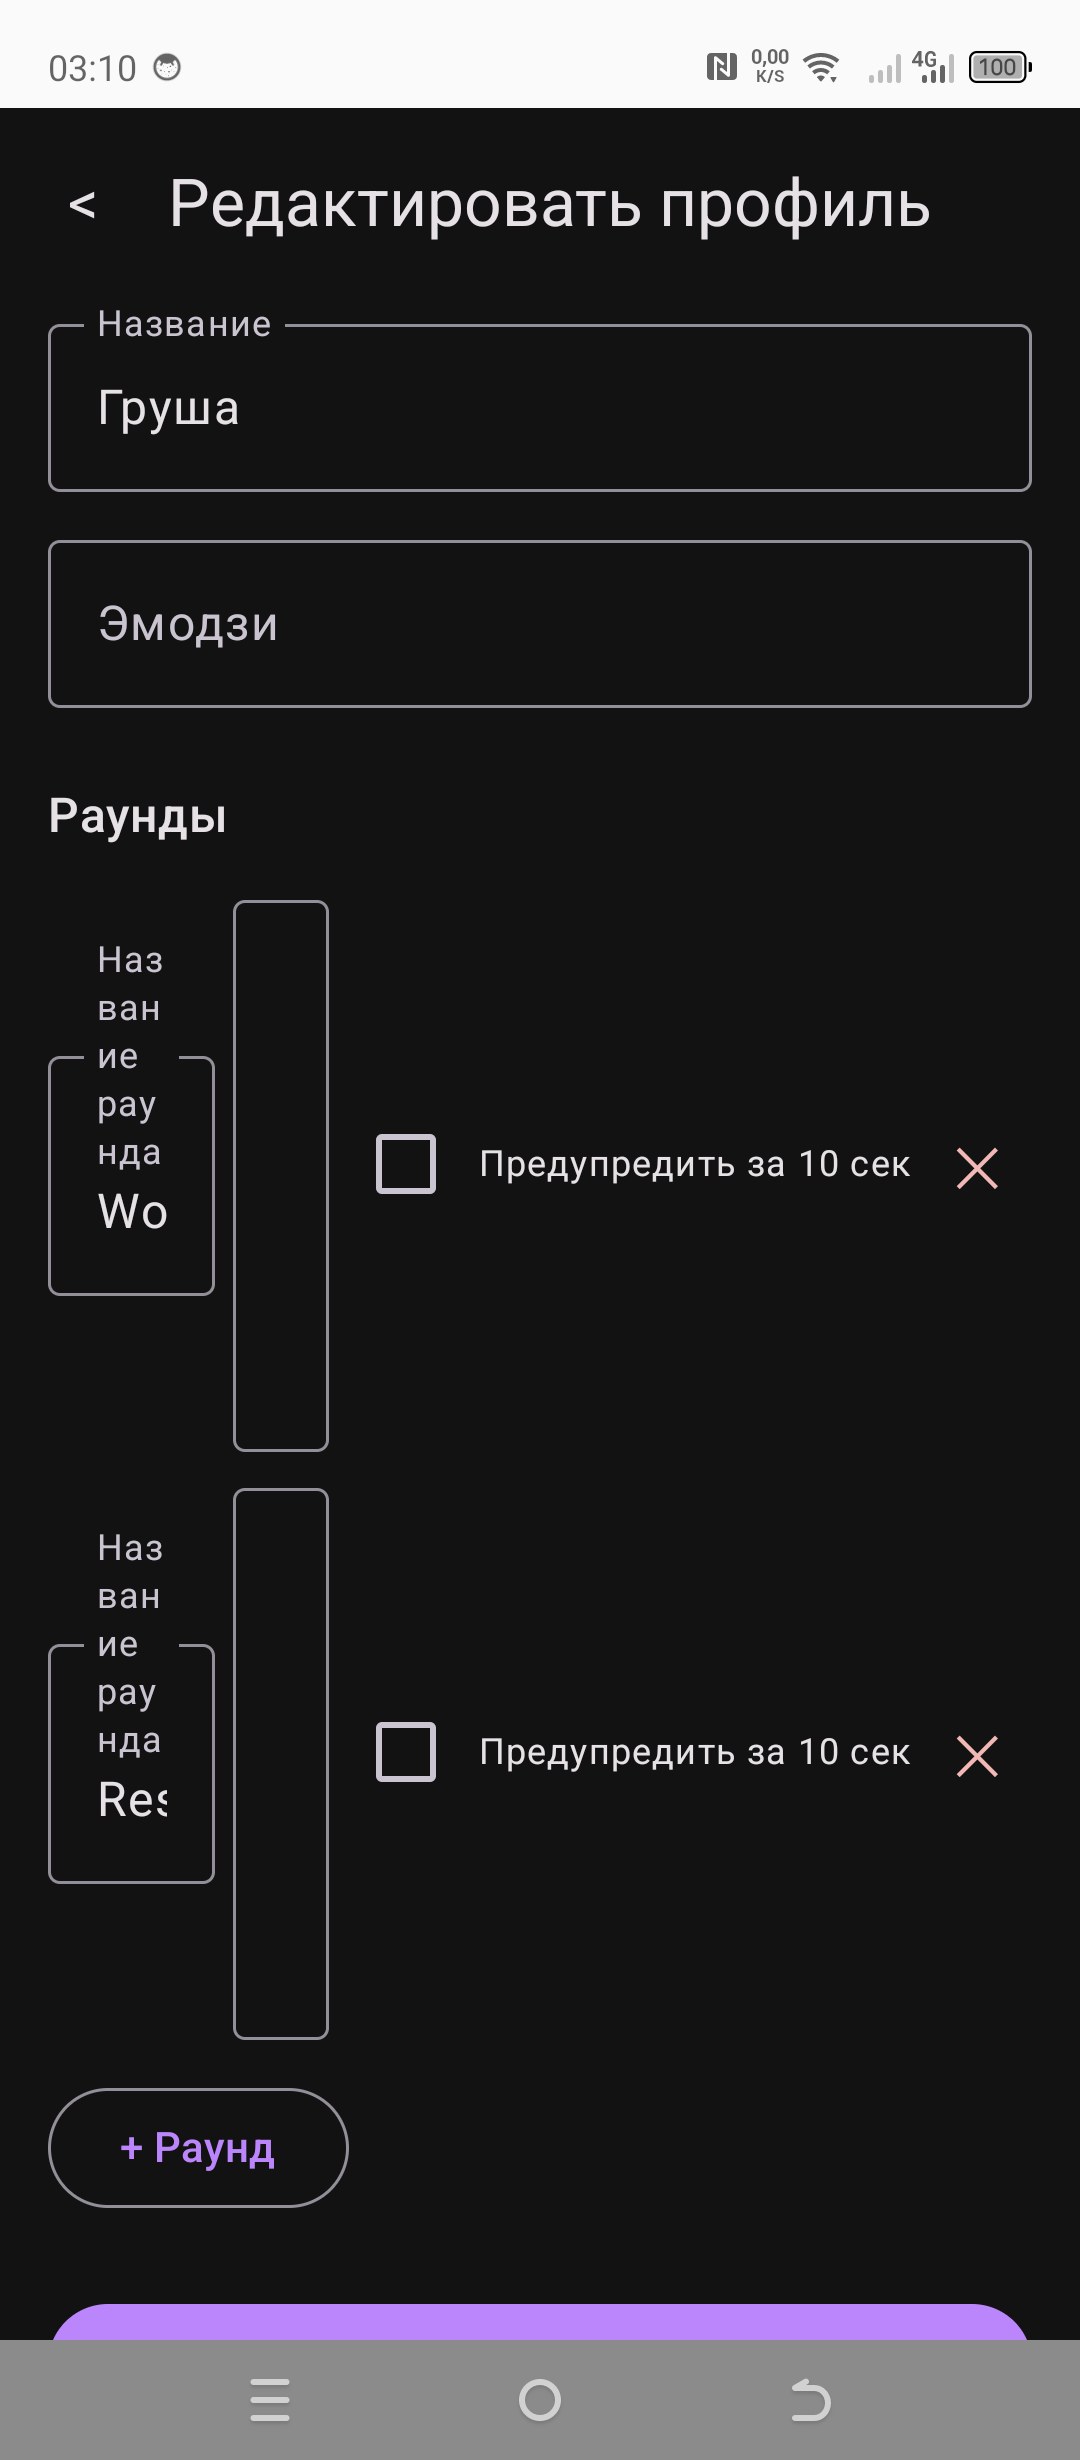
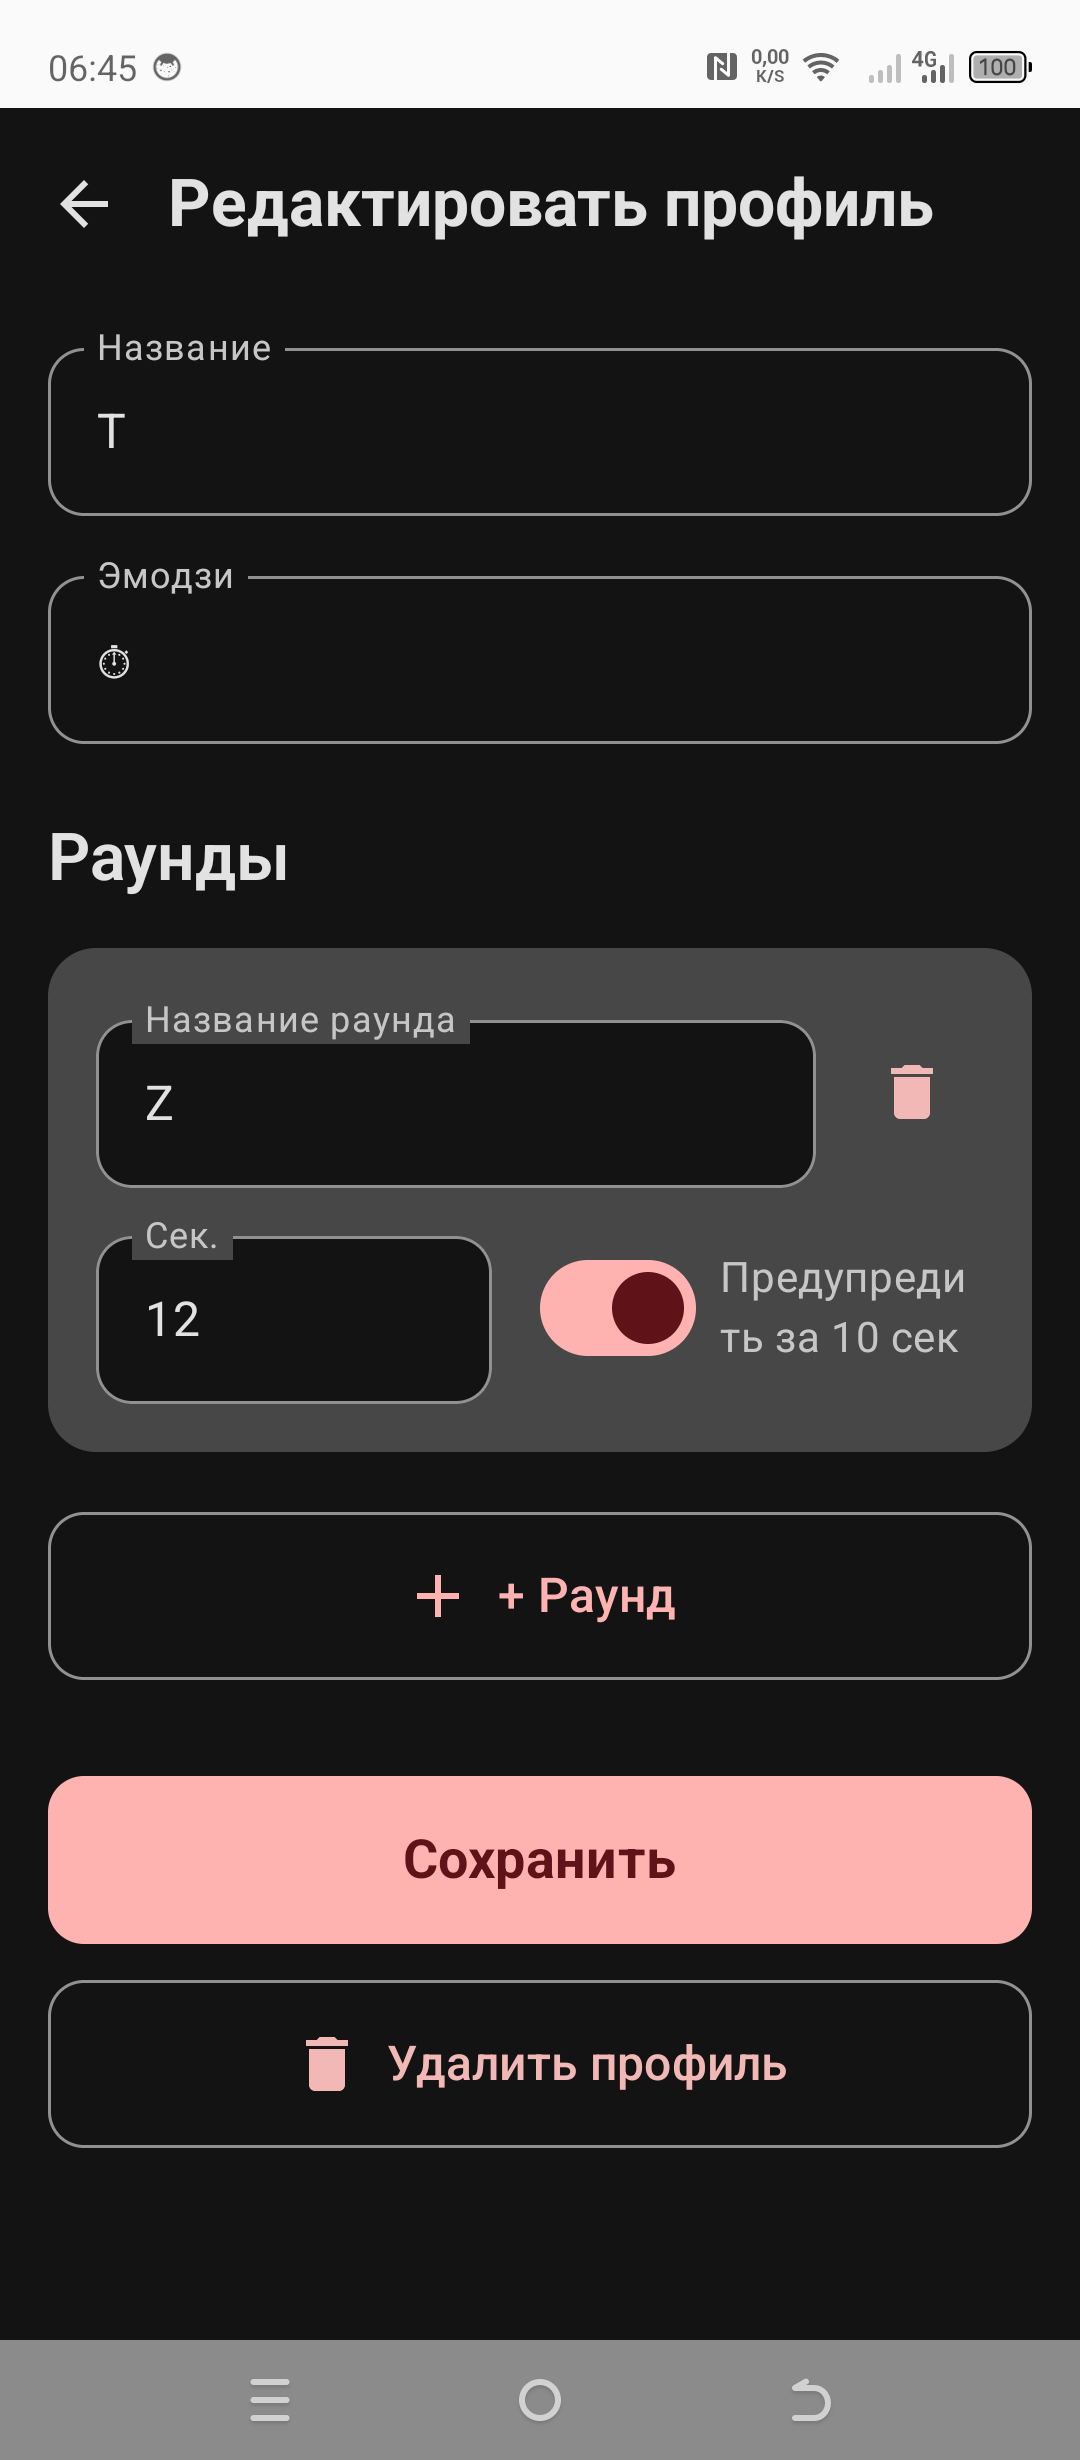
UX improvements per feedback: rename Profiles to Trainings, single round end beep, disable 10s voice warning, timer screen bg color transition
Made-with: Cursor

diff --git a/android/app/src/main/java/com/raund/app/ui/TimerScreen.kt b/android/app/src/main/java/com/raund/app/ui/TimerScreen.kt
@@ -6,7 +6,10 @@ import android.media.AudioManager
 import android.media.ToneGenerator
 import android.speech.tts.TextToSpeech
 import android.view.WindowManager
+import androidx.compose.animation.animateColorAsState
 import androidx.compose.animation.core.animateFloatAsState
+import androidx.compose.animation.core.tween
+import androidx.compose.animation.core.LinearEasing
 import androidx.compose.foundation.background
 import androidx.compose.foundation.layout.Arrangement
 import androidx.compose.foundation.layout.Box
@@ -47,7 +50,9 @@ import androidx.compose.runtime.setValue
 import androidx.compose.ui.Alignment
 import androidx.compose.ui.Modifier
 import androidx.compose.ui.draw.clip
+import androidx.compose.ui.graphics.Color
 import androidx.compose.ui.graphics.StrokeCap
+import androidx.compose.ui.graphics.lerp
 import androidx.compose.ui.platform.LocalContext
 import androidx.compose.ui.res.stringResource
 import androidx.compose.ui.text.TextStyle
@@ -84,7 +89,6 @@ fun TimerScreen(
     var tts by remember { mutableStateOf<TextToSpeech?>(null) }
     val timerFinishedText = stringResource(R.string.timer_finished)
     val timerStoppedText = stringResource(R.string.timer_stopped)
-    val warn10Template = stringResource(R.string.timer_warn10)
     val restartTimerText = stringResource(R.string.restart_timer)
 
     LaunchedEffect(profileId) {
@@ -160,10 +164,23 @@ fun TimerScreen(
         }
     }
 
+    val defaultBgColor = MaterialTheme.colorScheme.background
+    val progressRatioForBg = if (roundTotal > 0) remaining.toFloat() / roundTotal.toFloat() else 1f
+    val targetBgColor = if (running && !finished) {
+        lerp(Color(0xFF8B0000), Color(0xFF006400), progressRatioForBg)
+    } else {
+        defaultBgColor
+    }
+    val animatedBgColor by animateColorAsState(
+        targetValue = targetBgColor,
+        animationSpec = tween(1000, easing = LinearEasing),
+        label = "bgColor"
+    )
+
     BoxWithConstraints(
         modifier = Modifier
             .fillMaxSize()
-            .background(MaterialTheme.colorScheme.background)
+            .background(animatedBgColor)
     ) {
         val maxW = maxWidth.value
         val maxH = maxHeight.value
@@ -335,17 +352,11 @@ fun TimerScreen(
                                             }
                                         }
                                         is TimerEvent.Warn10 -> {
-                                            val msg = warn10Template.format(event.round.name)
-                                            tts?.speak(msg, TextToSpeech.QUEUE_ADD, null, null)
+                                            // Voice warning removed per user request
                                         }
                                         is TimerEvent.RoundEnd -> {
                                             scope.launch {
-                                                val tone = alarmTone
-                                                if (tone != null) {
-                                                    tone.startTone(piercingTone, longBeepMs)
-                                                    delay(longBeepGapMs)
-                                                    tone.startTone(piercingTone, longBeepMs)
-                                                }
+                                                alarmTone?.startTone(piercingTone, 1000)
                                             }
                                         }
                                         is TimerEvent.TrainingEnd -> {

diff --git a/android/app/src/main/java/com/raund/app/ui/ProfileEditorScreen.kt b/android/app/src/main/java/com/raund/app/ui/ProfileEditorScreen.kt
@@ -192,7 +192,9 @@ fun ProfileEditorScreen(
                                 value = dur,
                                 onValueChange = {
                                     val digitsOnly = it.filter { char -> char.isDigit() }
-                                    rounds[index] = Triple(rName, digitsOnly, warn)
+                                    val currentDur = digitsOnly.toIntOrNull() ?: 0
+                                    val newWarn = if (currentDur <= 10) false else warn
+                                    rounds[index] = Triple(rName, digitsOnly, newWarn)
                                 },
                                 label = { Text(stringResource(R.string.duration_seconds)) },
                                 singleLine = true,
@@ -208,9 +210,11 @@ fun ProfileEditorScreen(
                                 verticalAlignment = Alignment.CenterVertically,
                                 modifier = Modifier.weight(1f)
                             ) {
+                                val currentDur = dur.toIntOrNull() ?: 0
                                 Switch(
-                                    checked = warn,
-                                    onCheckedChange = { rounds[index] = Triple(rName, dur, it) }
+                                    checked = warn && currentDur > 10,
+                                    onCheckedChange = { rounds[index] = Triple(rName, dur, it) },
+                                    enabled = currentDur > 10
                                 )
                                 Spacer(modifier = Modifier.width(8.dp))
                                 Text(
